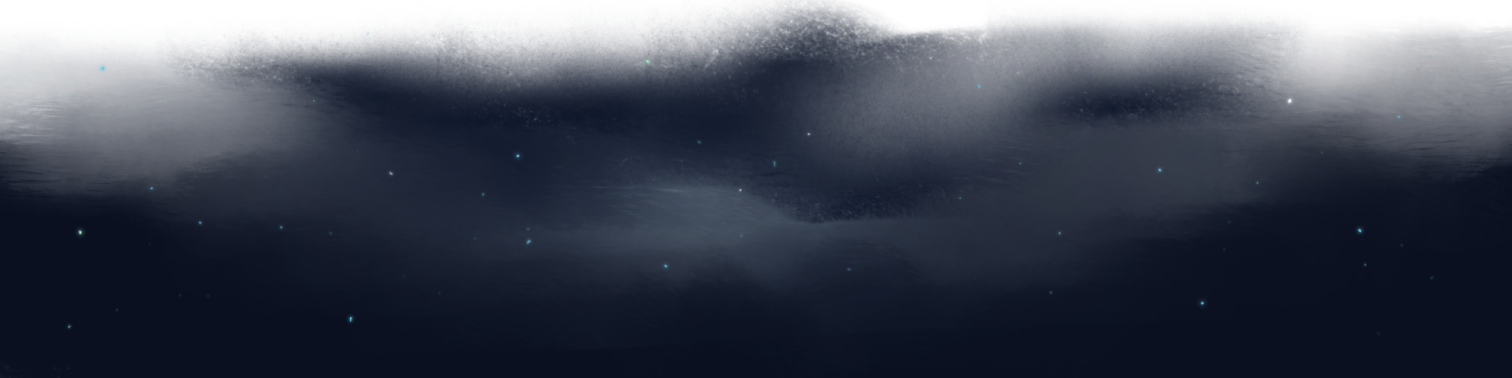
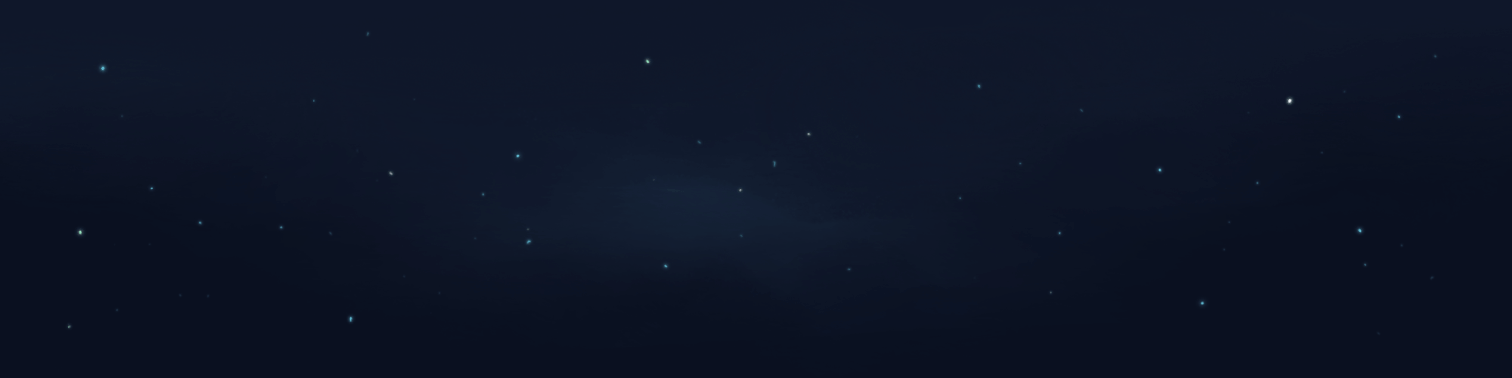
update(tts): landing page design

diff --git a/apps/total-typescript/src/pages/index.tsx b/apps/total-typescript/src/pages/index.tsx
@@ -6,12 +6,13 @@ import {
   SubscribeToConvertkitForm,
 } from '@skillrecordings/convertkit'
 import {useRouter} from 'next/router'
+import {MDXComponents} from 'components/mdx'
 
 const HomePage = () => {
   return (
-    <Layout>
+    <Layout meta={{titleAppendSiteName: false}}>
       <Header />
-      <main className="pt-16">
+      <main>
         <Copy />
         <SubscribeToNewsletter />
       </main>
@@ -21,7 +22,7 @@ const HomePage = () => {
 
 const Header = () => {
   return (
-    <header className="flex flex-col justify-center items-center px-5 overflow-hidden">
+    <header className="flex flex-col justify-center items-center overflow-hidden px-5 relative">
       <div className="max-w-screen-lg flex lg:flex-row flex-col-reverse items-center w-full relative lg:min-h-[80vh]">
         <div className="relative z-10 max-w-2xl lg:py-48 lg:pb-48 pb-10">
           <h1 className="sm:mt-0 mt-16 font-heading xl:text-6xl lg:text-5xl sm:text-5xl text-4xl font-normal xl:leading-[1.15] lg:leading-[1.15] sm:leading-[1.15] leading-[1.25] max-w-[14ch]">
@@ -49,13 +50,20 @@ const Header = () => {
           />
         </div>
       </div>
+      <Image
+        src={require('../../public/assets/landing/bg-divider-1.png')}
+        layout="fill"
+        className="object-contain object-bottom translate-y-48 select-none pointer-events-none"
+        alt=""
+        aria-hidden="true"
+      />
     </header>
   )
 }
 
 const Copy = () => {
   return (
-    <article className="md:prose-h2:py-16 prose-h2:text-3xl prose-h2:py-5 md:prose-h2:text-5xl md:prose-xl sm:prose-lg prose-base opacity-90 prose-p:font-light w-full prose-pre:overflow-auto prose-p:max-w-2xl prose-p:mx-auto prose-headings:max-w-3xl prose-headings:mx-auto prose-pre:max-w-2xl prose-pre:mx-auto prose-ul:max-w-2xl prose-ul:mx-auto prose-ul:list-disc marker:text-cyan-400 prose-headings:font-bold prose-p:px-5 prose-headings:px-5 prose-headings:font-text prose-h2:text-center">
+    <article className="prose-h2:text-3xl md:prose-h2:text-5xl md:prose-xl sm:prose-lg prose-base opacity-90 prose-p:font-light w-full prose-pre:overflow-auto prose-p:max-w-2xl prose-p:mx-auto prose-headings:max-w-2xl prose-headings:mx-auto prose-pre:max-w-2xl prose-pre:mx-auto prose-ul:max-w-2xl prose-ul:mx-auto prose-ul:list-disc marker:text-cyan-400 prose-headings:font-bold prose-p:px-5 prose-headings:px-5 prose-headings:font-text prose-h2:text-center">
       <LandingCopy />
     </article>
   )
@@ -64,34 +72,49 @@ const Copy = () => {
 const SubscribeToNewsletter = () => {
   const router = useRouter()
   return (
-    <section className="sm:mt-32 mt-20 pt-24 pb-32 bg-black/20 text-white flex flex-col items-center justify-center px-5">
-      <Image
-        src={require('../../public/assets/ts-scroll@2x.png')}
-        quality={100}
-        width={650 / 2}
-        height={650 / 2}
-        alt=""
-        aria-hidden="true"
-        placeholder="blur"
-      />
-      <h2 className="xl:text-6xl lg:text-5xl sm:text-5xl text-4xl font-heading font-bold max-w-[15ch] text-center">
-        Become a TypeScript Wizard
-      </h2>
-      <div className="py-16 w-full max-w-sm" id="newsletter">
-        <SubscribeToConvertkitForm
-          actionLabel="Subscribe"
-          onSuccess={(subscriber: any) => {
-            if (subscriber) {
-              const redirectUrl = redirectUrlBuilder(subscriber, '/confirm')
-              router.push(redirectUrl)
-            }
-          }}
+    <MDXComponents.Section
+      className="py-40 bg-[#081021] flex flex-col items-center"
+      slot={
+        <Image
+          src="/assets/landing/bg-divider-7.png"
+          layout="fill"
+          className="pointer-events-none object-contain select-none"
+          objectPosition="top center"
+          quality={100}
+        />
+      }
+    >
+      <div className="flex items-center justify-center">
+        <Image
+          src={require('../../public/assets/ts-scroll@2x.png')}
+          quality={100}
+          width={650 / 2}
+          height={650 / 2}
+          alt=""
+          aria-hidden="true"
+          placeholder="blur"
         />
       </div>
-      <p className="text-gray-400">
+      <h2 className="xl:text-6xl lg:text-5xl sm:text-5xl text-4xl font-heading font-bold max-w-[15ch] text-center mx-auto">
+        Become a TypeScript Wizard
+      </h2>
+      <div className="py-16 w-full mx-auto relative" id="newsletter">
+        <div className="max-w-sm mx-auto">
+          <SubscribeToConvertkitForm
+            actionLabel="Subscribe"
+            onSuccess={(subscriber: any) => {
+              if (subscriber) {
+                const redirectUrl = redirectUrlBuilder(subscriber, '/confirm')
+                router.push(redirectUrl)
+              }
+            }}
+          />
+        </div>
+      </div>
+      <p className="text-gray-400 text-center">
         I respect your privacy. Unsubscribe at any time.
       </p>
-    </section>
+    </MDXComponents.Section>
   )
 }
 

diff --git a/apps/total-typescript/src/components/mdx/index.tsx b/apps/total-typescript/src/components/mdx/index.tsx
@@ -1,10 +1,14 @@
 import React from 'react'
 import Image from 'next/image'
+import cx from 'classnames'
 
 export const MDXComponents = {
   TypeError: (props: TypeErrorProps) => <TypeError {...props} />,
   Topics: (props: TopicsProps) => <Topics {...props} />,
-  Image: (props: any) => <Image {...props} />,
+  Image: (props: any) => <DecorativeImage {...props} />,
+  Section: (props: any) => <Section {...props} />,
+  SectionHeading: (props: any) => <SectionHeading {...props} />,
+  ErrorFromHell: (props: any) => <ErrorFromHell {...props} />,
 }
 
 type TypeErrorProps = {
@@ -14,11 +18,11 @@ type TypeErrorProps = {
 
 const TypeError: React.FC<TypeErrorProps> = ({children, header}) => {
   return (
-    <div className="max-w-2xl prose-p:max-w-none font-mono mx-auto bg-black/50 rounded-sm border border-gray-700/50 text-[70%] leading-normal first-of-type:prose-p:mt-0 last-of-type:prose-p:mb-0">
+    <div className="max-w-2xl prose-p:max-w-none font-mono mx-auto bg-[#1C1427] sm:border-2 border-y-2 border-[#E11D48] border-opacity-20 text-sm leading-relaxed first-of-type:prose-p:mt-0 last-of-type:prose-p:mb-0 sm:rounded-md">
       {header && (
         <div className="px-5 py-3 border-b border-gray-800/50">{header}</div>
       )}
-      <div className="not-prose px-5 py-4">{children}</div>
+      <div className="not-prose px-5 py-5">{children}</div>
     </div>
   )
 }
@@ -33,9 +37,12 @@ const Topics: React.FC<TopicsProps> = ({children, header}) => {
   return (
     <div className="">
       <ul className="max-w-2xl">
-        {childrenArr.map((children) => {
+        {childrenArr.map((children, i) => {
           return (
-            <li className="relative before:absolute before:left-0 before:w-0.5 before:h-full before:bg-cyan-300/80 -ml-2 list-none">
+            <li
+              key={i}
+              className="relative before:absolute before:left-0 before:w-0.5 before:h-full before:bg-cyan-300/80 -ml-2 list-none"
+            >
               {children}
             </li>
           )
@@ -45,10 +52,85 @@ const Topics: React.FC<TopicsProps> = ({children, header}) => {
   )
 }
 
-// const str = 'name' as string
+const SectionHeading: React.FC<any> = ({
+  children,
+  dividerTop = null,
+  dividerBottom = null,
+  className,
+}) => {
+  return (
+    <div className="not-prose flex flex-col items-center sm:pb-16 pb-5 px-5">
+      {dividerTop && (
+        <DecorativeImage
+          src={dividerTop}
+          width={1440 / 2}
+          height={217 / 2}
+          className="pointer-events-none select-none"
+        />
+      )}
+      <h2
+        className={cx(
+          'md:text-5xl text-4xl font-bold mx-auto text-center py-12 font-heading',
+          className,
+        )}
+      >
+        {children}
+      </h2>
+      {dividerBottom && (
+        <DecorativeImage
+          src={dividerBottom}
+          width={1440 / 2}
+          height={217 / 2}
+          className="pointer-events-none select-none"
+        />
+      )}
+    </div>
+  )
+}
 
-// const obj = {
-//   str,
-// }
+const Section: React.FC<any> = ({
+  children,
+  backgroundImage,
+  slot = null,
+  className,
+}) => {
+  return (
+    <section className={cx('relative overflow-hidden w-full', className)}>
+      {slot}
+      <div className={cx('z-10 relative')}>{children}</div>
+      {backgroundImage && (
+        <DecorativeImage
+          src={backgroundImage}
+          layout="fill"
+          className="z-0 pointer-events-none lg:object-contain object-cover select-none"
+        />
+      )}
+    </section>
+  )
+}
 
-// console.log(obj[str])
+const ErrorFromHell: React.FC<any> = ({children}) => {
+  return (
+    <div className="mt-16 border-2 border-[#E11D48] border-opacity-20 bg-[#1C1427] font-mono max-w-3xl leading-relaxed mx-auto text-sm py-10 px-12 rounded-md text-left relative">
+      <div className="relative z-10">{children}</div>
+      <div className="absolute left-[-85px] top-[-178px] pointer-events-none select-none">
+        <DecorativeImage
+          src="/assets/landing/flame-corner-left@2x.png"
+          width={970 / 2}
+          height={868 / 2}
+        />
+      </div>
+      <div className="absolute right-[-45px] bottom-[-30px] pointer-events-none select-none">
+        <DecorativeImage
+          src="/assets/landing/flame-corner-right@2x.png"
+          width={482 / 2}
+          height={868 / 2}
+        />
+      </div>
+    </div>
+  )
+}
+
+const DecorativeImage: React.FC<any> = (props) => {
+  return <Image alt="" aria-hidden="true" quality={100} priority {...props} />
+}

diff --git a/apps/total-typescript/src/styles/newsletter.css b/apps/total-typescript/src/styles/newsletter.css
@@ -2,7 +2,7 @@
   [data-sr-convertkit-subscribe-form] {
     @apply flex flex-col gap-4;
     [data-sr-input] {
-      @apply p-5 bg-black/50 border border-gray-800/70 w-full rounded-sm text-lg;
+      @apply p-5 bg-gray-800/50 border border-gray-800 w-full rounded-sm text-lg;
     }
     [data-sr-input-label] {
       @apply w-full pb-1 inline-block text-gray-300;
